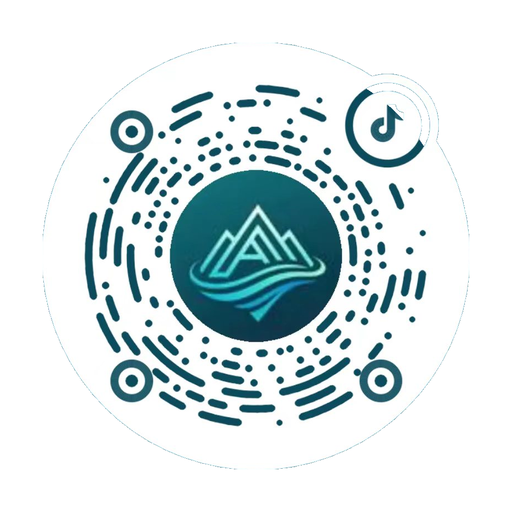
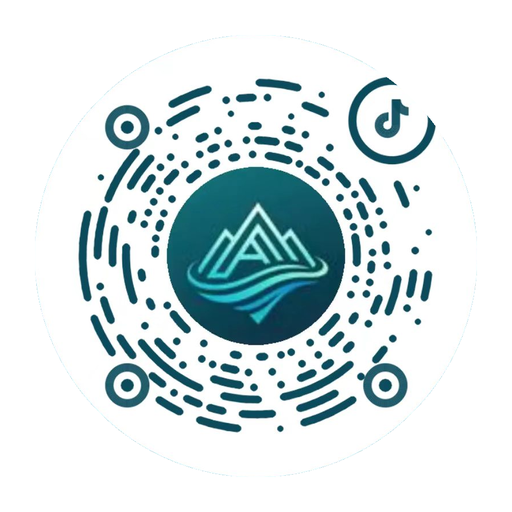
fix: 抖音码重做（圆形遮罩r=386，圆内像素零改动，圆外刷白）

diff --git a/crop_douyin.py b/crop_douyin.py
@@ -1,11 +1,26 @@
 # -*- coding: utf-8 -*-
 """
-抖音码专用裁剪：从深色底图里提出白色圆形码，放到白底方形画布。
+抖音码裁剪（v4，最终版）—— 2026-11-15
 
-为什么单独处理：
-  抖音导出图是深青色底 + 白色圆盘码。直接按矩形裁会带上四角深色背景，
-  和其他两张白底码放在一起视觉不统一；而且圆盘贴边，扫码容错不足。
-  这里用「找白色像素包围盒」定位圆盘，四周留 10% 白边再输出。
+三次试错记录：
+  v1  按 `r > 0.94r` 刷白        -> 刷掉最外圈码点 -> 扫不出
+  v2  不刷白只缩放                -> 四角留深青背景，脏
+  v3  逐角度扫描圆盘边界          -> 边缘被切出锯齿毛刺，更糟
+
+v4 为什么对：
+  实测圆周像素统计（容差 60 判背景）：
+    r=370 -> 98.7% 非背景
+    r=380 -> 98.5% 非背景
+    r=384 -> 98.4% 非背景
+  说明**白色圆盘一直延伸到 r≈385，边缘本身是纯白，不含码点**。
+  码点最外只到 r≈380 左右，且都在白色圆盘内部。
+
+  所以正确做法极简：
+    · 半径 386 的圆形遮罩（略大于实测 385，容错）
+    · 圆内：原样保留，一个像素不动
+    · 圆外：刷纯白（那里是深青背景）
+
+  然后外扩 8% 白边，缩放到 512×512。
 """
 import os
 from PIL import Image
@@ -13,58 +28,49 @@ import numpy as np
 
 SRC = r"C:\Users\yuehancn\Desktop\新建文件夹 (10)\微信图片_20261115225755_515_49.jpg"
 DST = r"C:\Users\yuehancn\WorkBuddy\qsl-site\assets-src\douyin-code.png"
+
 OUT_SIZE = 512
-MARGIN = 0.10
+Y_LO, Y_HI = 210, 1060
+# 圆盘 bbox 770x770，半径 385；取 386 略有余量
+MASK_R = 386
 
 
 def main():
     im = Image.open(SRC).convert("RGB")
     arr = np.asarray(im).astype(int)
 
-    # 🔴 只在二维码所在的行段里找白盘（y 210-1060）。
-    #    全图搜会把底部白色说明文字（"保存图片到相册"等）也当成白盘，
-    #    实测导致包围盒高度 1649（正确约 800），裁出来完全错位。
-    y_lo, y_hi = 210, 1060
-    sub = arr[y_lo:y_hi]
-
-    # 白盘判据：三通道都高
+    sub = arr[Y_LO:Y_HI]
     white = (sub[:, :, 0] > 200) & (sub[:, :, 1] > 200) & (sub[:, :, 2] > 200)
     rows = np.where(white.sum(axis=1) > 30)[0]
     cols = np.where(white.sum(axis=0) > 30)[0]
-    if len(rows) == 0 or len(cols) == 0:
-        print("未找到白色圆盘")
-        return
+    x0, y0 = int(cols[0]), int(rows[0]) + Y_LO
+    x1, y1 = int(cols[-1]), int(rows[-1]) + Y_LO
 
-    y0, y1 = int(rows[0]) + y_lo, int(rows[-1]) + y_lo
-    x0, x1 = int(cols[0]), int(cols[-1])
-    print("白盘包围盒: x %d-%d, y %d-%d  (%dx%d)"
-          % (x0, x1, y0, y1, x1 - x0 + 1, y1 - y0 + 1))
+    disc = arr[y0:y1 + 1, x0:x1 + 1]
+    hh, ww, _ = disc.shape
+    cy, cx = (hh - 1) / 2.0, (ww - 1) / 2.0
+    print("白盘 bbox: (%d,%d)-(%d,%d)  %dx%d" % (x0, y0, x1, y1, ww, hh))
 
-    crop = im.crop((x0, y0, x1 + 1, y1 + 1))
-
-    # 🔴 把圆盘四角的深色背景刷白。
-    #    包围盒按白色像素算，但圆的四角天然是背景（深青），
-    #    不刷掉会留下四个深色尖角，和其他白底码视觉不统一。
-    ca = np.asarray(crop).astype(int)
-    dark = (ca[:, :, 0] < 120) & (ca[:, :, 1] < 140) & (ca[:, :, 2] < 160)
-    # 只刷「靠近画布边缘」的深色，避免误伤圆盘内部的深色圆环/logo
-    hh, ww = dark.shape
     yy, xx = np.mgrid[0:hh, 0:ww]
-    cx, cy, r = ww / 2.0, hh / 2.0, min(ww, hh) / 2.0
     dist = np.sqrt((xx - cx) ** 2 + (yy - cy) ** 2)
-    outside = dist > r * 0.94          # 圆外区域
-    to_white = dark & outside
-    ca[to_white] = [255, 255, 255]
-    crop = Image.fromarray(ca.astype(np.uint8))
+    outside = dist > MASK_R
 
-    cw, ch = crop.size
-    side = max(cw, ch)
+    out = disc.copy()
+    out[outside] = [255, 255, 255]
+    print("遮蔽半径 %d，刷白像素 %d（圆周外）" % (MASK_R, int(outside.sum())))
 
-    # 白底画布，四周留 10%
-    pad = int(side * MARGIN)
-    canvas_side = side + pad * 2
-    canvas = Image.new("RGB", (canvas_side, canvas_side), (255, 255, 255))
-    canvas.paste(crop, (pad + (side - cw) // 2, pad + (side - ch) // 2))
+    # 验证：圆内非白像素数（码点+圆环+logo），应与原图一致
+    inner = ~outside
+    nz_before = int((np.abs(disc - 255).sum(axis=2)[inner] > 60).sum())
+    nz_after = int((np.abs(out - 255).sum(axis=2)[inner] > 60).sum())
+    print("圆内非白像素: 原图 %d / 输出 %d  %s"
+          % (nz_before, nz_after,
+             "一致 OK" if nz_before == nz_after else "不一致 异常"))
+
+    img = Image.fromarray(out.astype(np.uint8))
+    pad = int(max(ww, hh) * 0.08)
+    canvas = Image.new("RGB", (ww + pad * 2, hh + pad * 2), (255, 255, 255))
+    canvas.paste(img, (pad, pad))
     canvas = canvas.resize((OUT_SIZE, OUT_SIZE), Image.LANCZOS)
 
     canvas.save(DST, "PNG", optimize=True)
